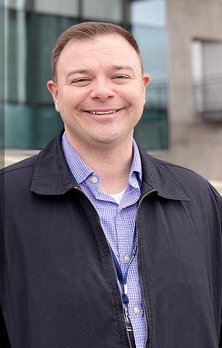
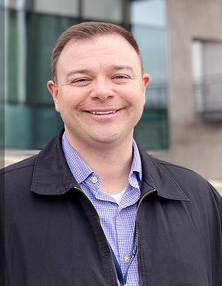
Update pictures.

diff --git a/index.js b/index.js
@@ -11,7 +11,7 @@ var people = [
     { firstName: 'Brent', lastName: 'Beachler', picture: 'http://moderntrill.com/img/team/3.jpg' },
     { firstName: 'Bryan', lastName: 'Haas', picture: 'Pictures/Bryan.png' },
     { firstName: 'Caitlin', lastName: 'Stewart', picture: 'https://pbs.twimg.com/profile_images/590660648884953088/ELguo9zO_400x400.jpg' },
-    { firstName: 'Chad', lastName: 'Evans', picture: 'https://scontent-dfw5-1.xx.fbcdn.net/v/t1.0-9/14141987_1160643213981221_5106362624990197306_n.jpg?_nc_cat=105&_nc_sid=8024bb&_nc_ohc=vieJ1uWnMMMAX9yBPJR&_nc_ht=scontent-dfw5-1.xx&oh=d7aa698192a39683b84d51b2c8499609&oe=5ED44132' },
+    { firstName: 'Chad', lastName: 'Evans', picture: 'Pictures/Chad.png' },
     { firstName: 'Chuck', lastName: 'Wallace', picture: 'https://scontent-dfw5-2.xx.fbcdn.net/v/t1.0-9/11754260_10204830037777446_4541829961710943003_n.jpg?_nc_cat=108&_nc_sid=e007fa&_nc_ohc=wSftXijcFukAX-mez0P&_nc_ht=scontent-dfw5-2.xx&oh=fe8aa770006c7420cd174538920d02c0&oe=5ED0E941' },
     { firstName: 'Danny', lastName: 'Taylor', picture: 'https://media-exp1.licdn.com/dms/image/C5603AQEtNZsiT26rjg/profile-displayphoto-shrink_800_800/0?e=1593648000&v=beta&t=vl5AY5umW-3ujLKCSu0qude381b8WYatp2t7xGRGZzA' },
     { firstName: 'Debra', lastName: 'Depuy', picture: 'https://media-exp1.licdn.com/dms/image/C4D03AQFoBUCKTsVhyQ/profile-displayphoto-shrink_800_800/0?e=1593648000&v=beta&t=VTtJR_U-gl7SwRoibO3ekCC1DT60jSfp8yHUn_yTZM8' },
@@ -24,12 +24,12 @@ var people = [
     { firstName: 'Kyle', lastName: 'Thomason', picture: 'https://media-exp1.licdn.com/dms/image/C5603AQGv4RAG0VRxjg/profile-displayphoto-shrink_800_800/0?e=1593648000&v=beta&t=vPzs2AMcfZtKiLLP7_7grhaRX9y2NKha2aA98UdullE' },
     { firstName: 'Matt', lastName: 'Breeding', picture: 'https://media-exp1.licdn.com/dms/image/C4D03AQGBRoz2GvDvew/profile-displayphoto-shrink_800_800/0?e=1593648000&v=beta&t=tpv_LiXjfiMFHbvzSmJ8fmXm08zNz1pS65mNQ92VIWc' },
     { firstName: 'Micah', lastName: 'McKinnon', picture: 'Pictures/Micah.png' },
-    { firstName: 'Mike', lastName: 'Mitchell', picture: 'https://ap.rdcpix.com/2079968914/9321e42131100314df1ce0789a0b76a0a-c0od-r7_w144.jpg' },
-    { firstName: 'Mitch', lastName: 'Owen', picture: '' },
+    { firstName: 'Mike', lastName: 'Mitchell', picture: 'https://scontent-dfw5-2.xx.fbcdn.net/v/t1.0-9/45035_1478019948656_1829241_n.jpg?_nc_cat=100&_nc_sid=85a577&_nc_ohc=qQxLwl9XqY8AX8D0Wdk&_nc_ht=scontent-dfw5-2.xx&oh=f4bcc7745074b7a4d6427f8919ff7893&oe=5ED29E52' },
+    { firstName: 'Mitch', lastName: 'Owen', picture: 'Pictures/Mitch.jpg' },
     { firstName: 'Obiye', lastName: 'Kolokolo', picture: 'https://media-exp1.licdn.com/dms/image/C5603AQH6QxZlsTJkWA/profile-displayphoto-shrink_800_800/0?e=1593648000&v=beta&t=GkiuVcXRZUuQn_j12RIzG3gxsZ26WqcE9LOZa4ElXIE' },
     { firstName: 'Phillip', lastName: 'Braddy', picture: 'https://scontent-dfw5-1.xx.fbcdn.net/v/t1.0-9/75326_1649951458850_6012910_n.jpg?_nc_cat=101&_nc_sid=e007fa&_nc_ohc=73VBWM2v5jsAX-slaXl&_nc_ht=scontent-dfw5-1.xx&oh=142aa1cc454675b7adc4ed0628687eff&oe=5ED3DF01' },
     { firstName: 'Prather', lastName: 'Thomas', picture: 'https://media-exp1.licdn.com/dms/image/C4E03AQGEhe1GZ9kUfw/profile-displayphoto-shrink_800_800/0?e=1593648000&v=beta&t=JAXiPkhXKsJguEwGD6TCuZwmJPI_msp45KphZZ0C6Ec' },
-    { firstName: 'Rhonda', lastName: 'Cook', picture: 'https://media-exp1.licdn.com/dms/image/C4E03AQEARegJmoEI8Q/profile-displayphoto-shrink_800_800/0?e=1593648000&v=beta&t=AqepisHLWpmzAFSj6b-TlECh0BZl0oI7Wv-EqHeNf6s' },
+    { firstName: 'Rhonda', lastName: 'Cook', picture: 'Pictures/Rhonda.png' },
     { firstName: 'Ryan', lastName: 'Burk', picture: 'Pictures/Ryan.png' },
     { firstName: 'Ryan', lastName: 'Jayo', picture: 'https://media-exp1.licdn.com/dms/image/C4E03AQHFlRlRQgj96g/profile-displayphoto-shrink_800_800/0?e=1593648000&v=beta&t=WreXyaFDGdQ5cpISlmzLGtyfumejZMZaP9aAobGesV0' },
     { firstName: 'Ryan', lastName: 'Johnson', picture: 'http://moderntrill.com/img/team/1.jpg' },
@@ -39,6 +39,7 @@ var people = [
 
 var person;
 getPerson();
+updateScore();
 
 loadOptions(people.map(x => x.firstName).filter(unique).sort(), document.getElementById("firstName"));
 loadOptions(people.map(x => x.lastName).filter(unique).sort(), document.getElementById("lastName"));

diff --git a/index.html b/index.html
@@ -8,7 +8,7 @@
     <body>
         <div class="container-fluid">
             <h1>Who's Who at MYCG?</h1>
-            <div class="jumbotron" style="width: 400px;">
+            <div class="jumbotron" style="width: 410px;">
                 <div id="play">
                     <div style="height: 350px;">
                         <div style="display: flex; justify-content: center;">
